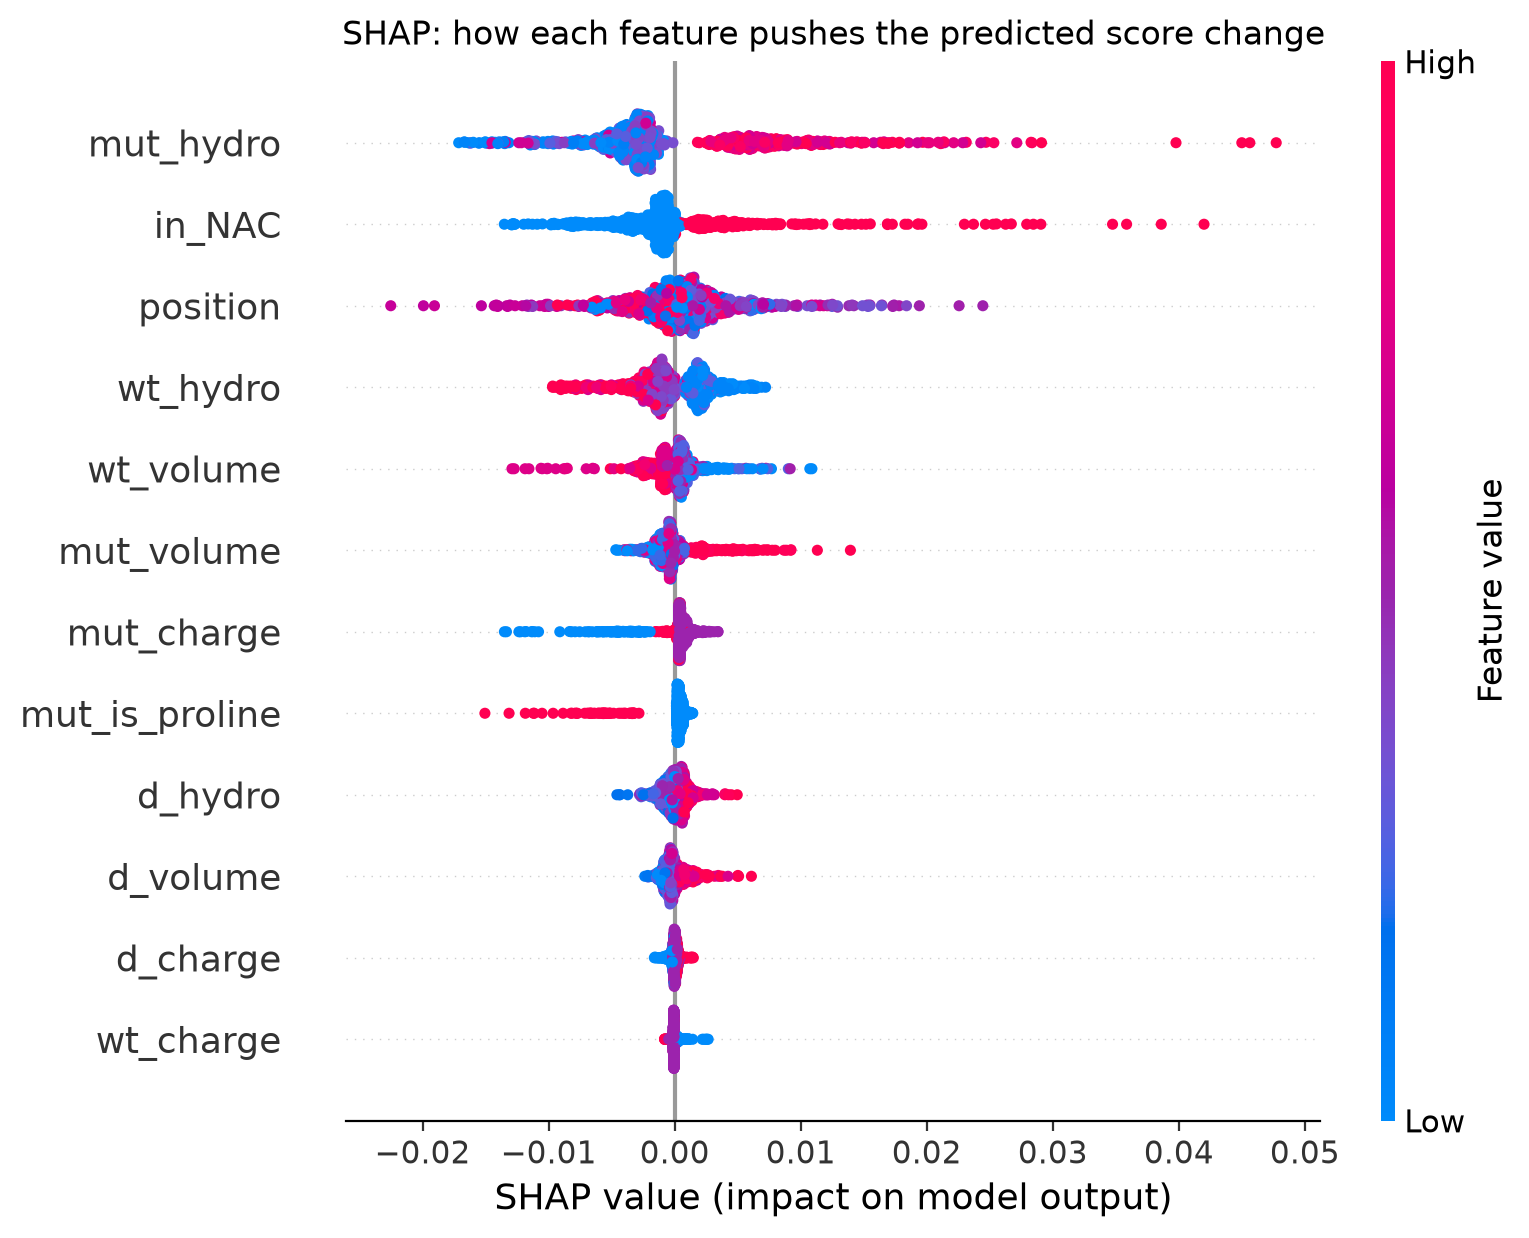
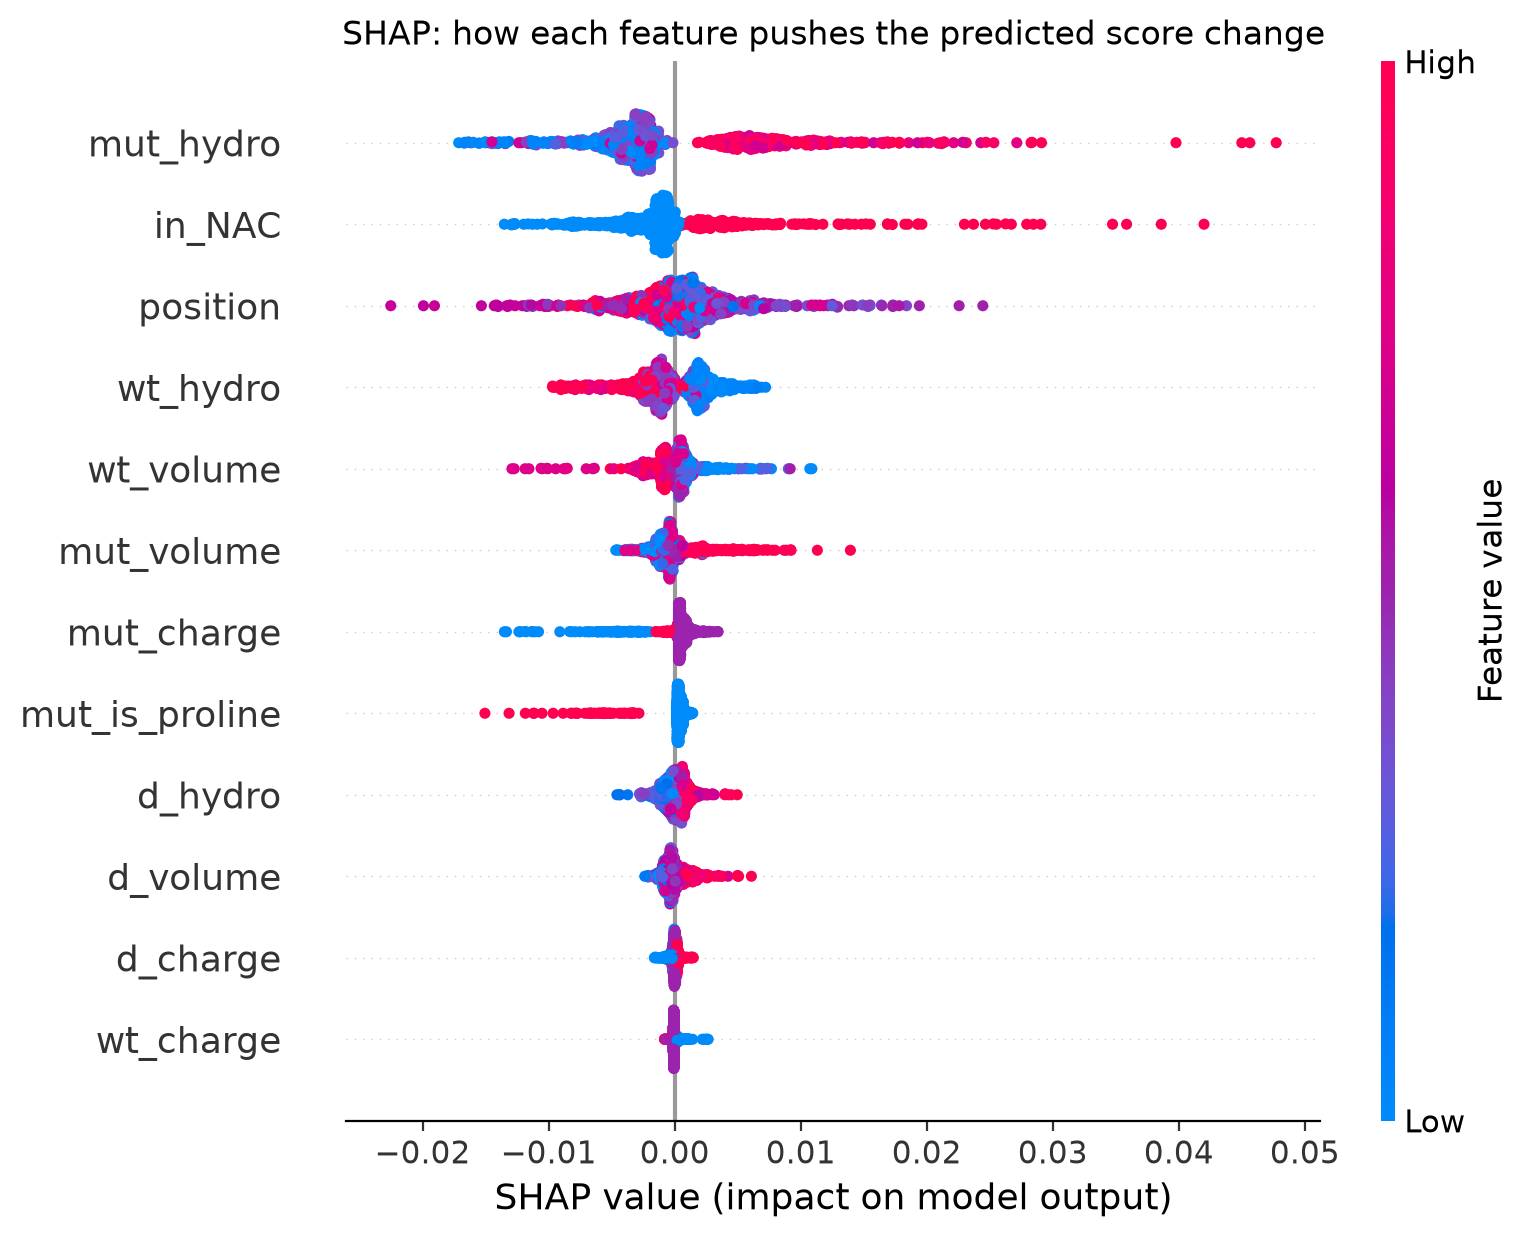
Finalize methods and limitations

Changed region(s): [[0.3689, 0.2149, 0.5533, 0.4604], [0.3074, 0.0921, 0.5533, 0.1535], [0.3996, 0.6139, 0.4611, 0.7981]]

diff --git a/METHODS_AND_LIMITATIONS.md b/METHODS_AND_LIMITATIONS.md
@@ -6,15 +6,18 @@ generated.
 
 **Scoring.** Each variant was scored with CANYA, a convolution-attention neural
 network trained on nucleation data for >100,000 random 20-residue peptides
-(Thompson et al., 2024). Mutation effect (delta) = [CONFIRM: mutant score minus
-wild-type score, aggregated across overlapping 20-aa windows by mean / max].
+(Thompson et al., 2024). Mutation effect (delta) = [Mutation effect (delta) = CANYA score of the mutant 20-residue window minus the
+score of the corresponding wild-type window. Each mutation was scored in the
+single fixed 20-residue window that contains it.].
 
 **Feature analysis.** Features: wild-type and mutant hydrophobicity, volume and
 charge, their differences, a proline indicator, position, and NAC membership
 (residues 61-95). A random forest regressor (200 trees, min_samples_leaf=5) was
 evaluated with 5-fold GroupKFold, holding out whole 20-residue blocks.
 Performance was reported as R-squared and Spearman correlation, overall and
-inside/outside the NAC. [CONFIRM: SHAP settings used in Step 17.]
+inside/outside the NAC. [Feature contributions were quantified with SHAP values on the random forest
+(Step 17). Mean |SHAP| was highest for mutant hydrophobicity (0.0058), followed by
+NAC membership (0.0033) and position (0.0031); charge features contributed least.]
 
 **Literature comparison.** Region sensitivity, proline effects and six familial
 PD mutations (A30P, E46K, H50Q, G51D, A53T, A53E) were compared with published
